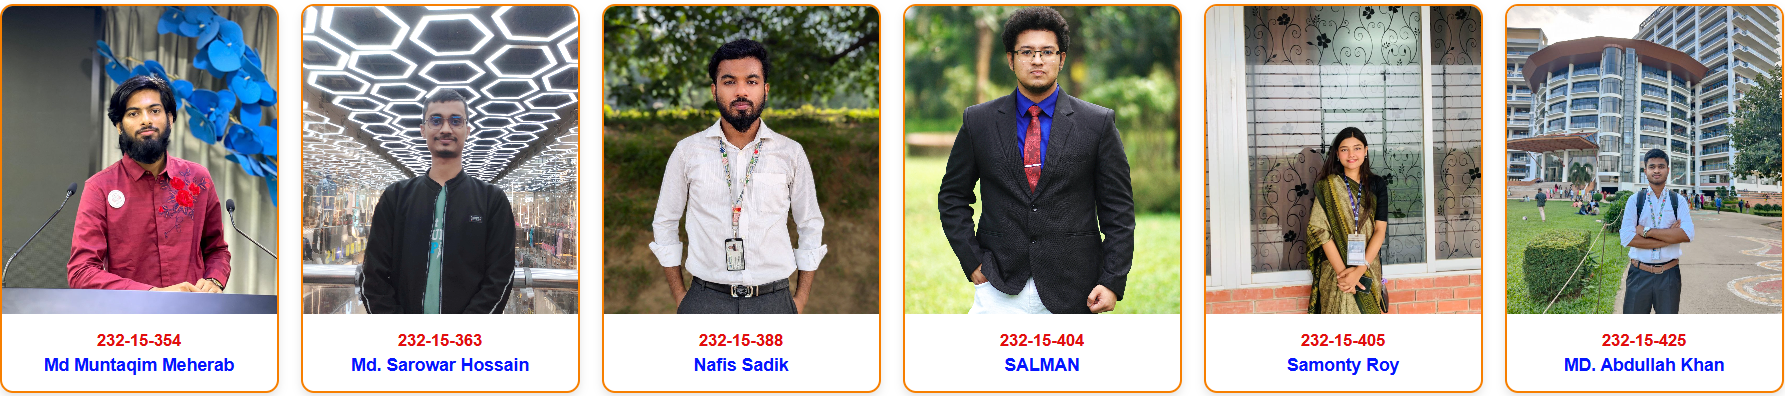
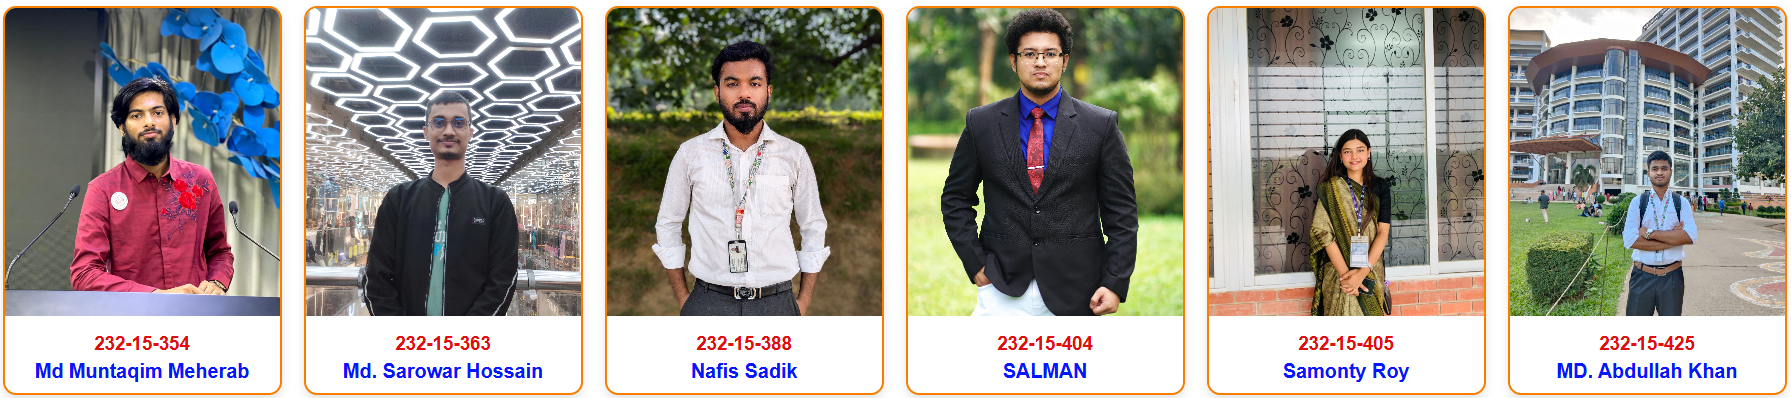
all complete

diff --git a/script.js b/script.js
@@ -10,7 +10,7 @@ const students = [
   { id: "232-15-180", name: "Md Abdullah Al Maruf", img: "./images/232-15-180.jpg" },
   { id: "232-15-184", name: "Shafin Ahmed", img: "./images/232-15-184.jpg" },
   { id: "232-15-197", name: "PROTIK DAS UTSO", img: "./images/232-15-197.jpg" },
-  { id: "232-15-203", name: "M M Yamin Islam Elan", img: "./images/232-15-203.jpg" },
+  { id: "232-15-203", name: "M M Yamin Islam Elan", img: "./images/232-15-203.JPG" },
   { id: "232-15-210", name: "Kazi Anamul Haque", img: "./images/232-15-210.jpg" },
   { id: "232-15-225", name: "Safayet islam abir", img: "./images/232-15-225.jpg" },
   { id: "232-15-231", name: "Najrin Alam Orna", img: "./images/232-15-231.jpg" },
@@ -26,7 +26,7 @@ const students = [
   { id: "232-15-425", name: "MD. Abdullah Khan", img: "./images/232-15-425.jpg" },
   { id: "232-15-487", name: "Touhidul Islam", img: "./images/232-15-487.jpg" },
   { id: "232-15-552", name: "Hasnat Bin Hossain Sakib", img: "./images/232-15-552.jpeg" },
-  { id: "232-15-566", name: "Nayeem Siddique Bijoy", img: "./images/232-15-566.jpg" },
+  { id: "232-15-566", name: "Nayeem Siddique Bijoy", img: "./images/232-15-566.JPG" },
   { id: "232-15-567", name: "Tawfiq Uddin Samin", img: "./images/232-15-567.jpg" },
   { id: "232-15-647", name: "Tasnim Arafat", img: "./images/232-15-647.jpg" },
   { id: "232-15-678", name: "Yousuf Imam", img: "./images/232-15-678.jpg" },
@@ -41,10 +41,10 @@ const students = [
   { id: "232-15-810", name: "Abu Dazana", img: "./images/232-15-810.jpg" },
   { id: "232-15-817", name: "Naiful Islam", img: "./images/232-15-817.jpg" },
   { id: "232-15-825", name: "ABU HASAN MONDAL", img: "./images/232-15-825.png" },
-  { id: "232-15-827", name: "MD. ANWAR HOSSEN", img: "./images/232-15-827.jpg" },
+  { id: "232-15-827", name: "MD. ANWAR HOSSEN", img: "./images/232-15-827.JPG" },
   { id: "232-15-872", name: "Razmin Zahan Rifha", img: "./images/232-15-872.jpg" },
   { id: "232-15-893", name: "Sobeha Prova", img: "./images/232-15-893.jpg" },
-  { id: "232-15-897", name: "MD FOYSAL BHUIYAN", img: "./images/232-15-897.jpg" },
+  { id: "232-15-897", name: "MD FOYSAL BHUIYAN", img: "./images/232-15-897.JPG" },
   { id: "232-15-907", name: "Sadia Afrin Juie", img: "./images/232-15-907.jpg" },
   { id: "232-15-923", name: "Fouzia Farhin Khan", img: "./images/232-15-923.jpg" },
   { id: "0242310005101348", name: "Rukaiya Akter Maria", img: "./images/0242310005101348.jpg" },

diff --git a/style.css b/style.css
@@ -160,14 +160,14 @@ body {
   }
   
   .student-id {
-    font-size: 15px;
+    font-size: 17px;
     font-weight: 700;
     color: #e20e0e;
     margin: 5px 0;
   }
   
   .student-name {
-    font-size: 16px;
+    font-size: 18px;
     font-weight: bold;
     color: #0616ff;
     margin: 5px 0;
@@ -277,4 +277,13 @@ body {
       margin-bottom: 15px;
     }
   }
+  @media (max-width: 540px) {
+    .student-card {
+      width: 100%;
+      height: auto;
+    }
   
+    .student-img {
+      height: 380px;
+    }
+  }
